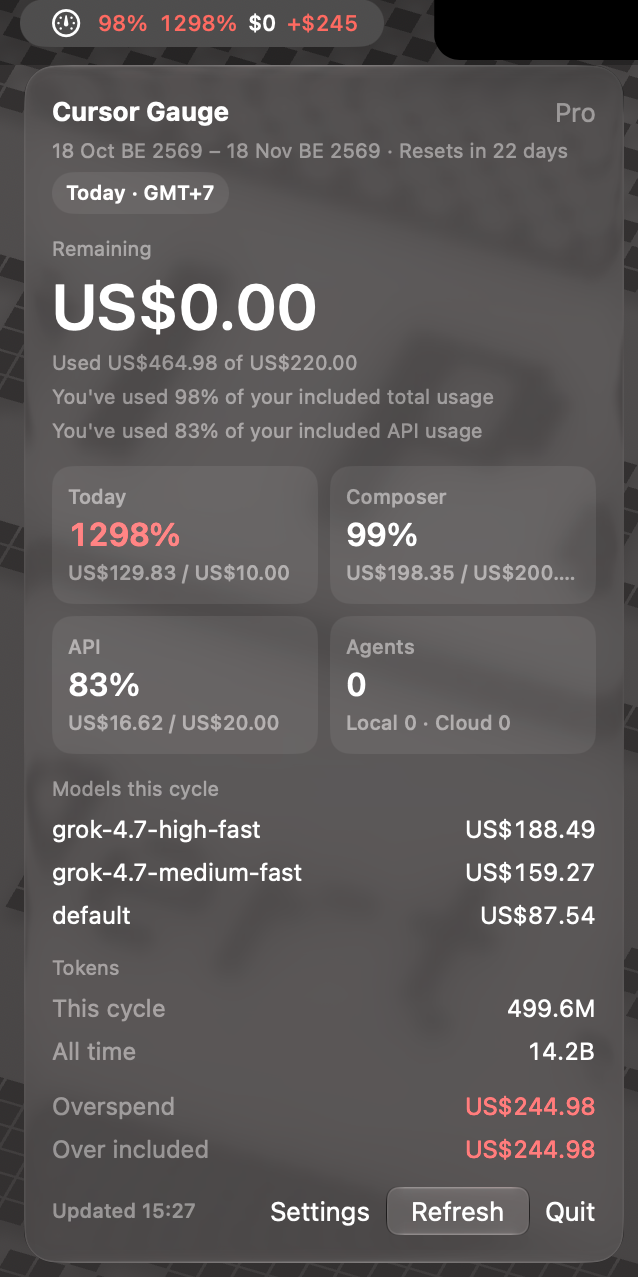
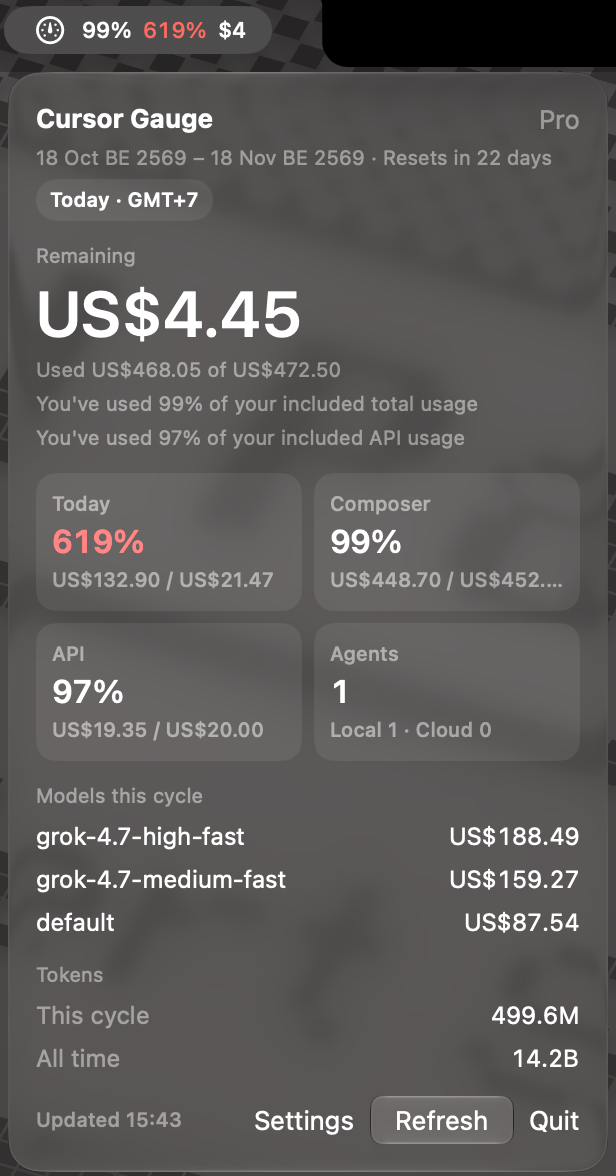
docs: update README to include Thai localization and enhance structure
- Added Thai language section for better accessibility.
- Improved formatting and organization of existing content, including features, requirements, installation, and usage sections.
- Updated headings for consistency and clarity.
- Replaced outdated Homebrew installation instructions with updated commands.
- Included a new screenshot for visual reference.

diff --git a/README.md b/README.md
@@ -1,14 +1,20 @@
 # Cursor Gauge
 
+[English](#english) · [ภาษาไทย](#ภาษาไทย)
+
+![Cursor Gauge panel](docs/screenshot.png)
+
+---
+
+## English
+
 A lightweight macOS menu bar app that shows your Cursor plan usage and how much you have left this billing cycle.
 
 No browser tab, no manual cookie paste — Cursor Gauge reads your session from the local Cursor IDE database and fetches usage from Cursor's dashboard API.
 
-![Cursor Gauge panel](docs/screenshot.png)
-
 Cursor Gauge is a fork of [CursorBar](https://github.com/c-johannesen/cursorbar) by [c-johannesen](https://github.com/c-johannesen).
 
-## Features
+### Features
 
 - **Menu bar icon** — a system gauge symbol plus the figures you turn on in Settings. A yellow badge means an agent needs input. With every switch off, only the gauge remains
 - **Configurable menu bar** — Settings chooses gauge, quota percent, agent badge, today percent, remaining money, and overspend. The dropdown still shows the full panel
@@ -21,15 +27,15 @@ Cursor Gauge is a fork of [CursorBar](https://github.com/c-johannesen/cursorbar)
 - **Auto-refresh** — on launch and every 5 minutes, with a manual Refresh button anytime
 - **Built-in updates** — checks GitHub Releases on startup, with a manual check button and one-click update from Settings
 
-## Requirements
+### Requirements
 
 - macOS 26 or later
 - [Cursor IDE](https://cursor.com) installed and signed in on this Mac
 - Swift 6 — only needed if [building from source](#build-from-source)
 
-## Install
+### Install
 
-### Homebrew
+#### Homebrew
 
 ```bash
 brew tap charcoaldev04/cursor-gauge
@@ -39,7 +45,7 @@ brew install --cask cursor-gauge
 
 This installs `Cursor Gauge.app`. The tap is [homebrew-cursor-gauge](https://github.com/CharcoalDev04/homebrew-cursor-gauge). Homebrew 7 will not install a third-party cask until the tap is trusted.
 
-### Download
+#### Download
 
 Download the latest `CursorGauge-*.zip` from [Releases](https://github.com/CharcoalDev04/cursor-gauge/releases), unzip it, and move `Cursor Gauge.app` to `/Applications`. Then open it:
 
@@ -47,7 +53,7 @@ Download the latest `CursorGauge-*.zip` from [Releases](https://github.com/Charc
 open -a "Cursor Gauge"
 ```
 
-### Build from source
+#### Build from source
 
 ```bash
 git clone https://github.com/CharcoalDev04/cursor-gauge.git
@@ -57,7 +63,7 @@ bash scripts/install.sh
 
 This builds Cursor Gauge locally, installs it to `/Applications/Cursor Gauge.app`, and opens it.
 
-### Launch later
+#### Launch later
 
 ```bash
 open -a "Cursor Gauge"
@@ -69,7 +75,7 @@ Or, if you built from source:
 bash scripts/launch.sh
 ```
 
-## Usage
+### Usage
 
 | Menu bar | Click to open dropdown |
 |----------|------------------------|
@@ -93,7 +99,7 @@ Agent status is read from local Cursor IDE data (transcripts and `state.vscdb`).
 
 **Errors:** if something goes wrong, the menu bar shows `!` — open the dropdown for details.
 
-## Troubleshooting
+### Troubleshooting
 
 Check that Cursor Gauge can read your account:
 
@@ -113,7 +119,7 @@ Common issues:
 | `No auth token found` | Sign out and back into Cursor, then relaunch Cursor Gauge |
 | `Could not parse auth token` | Update Cursor Gauge. Current Cursor seals the login token; signing in again does not turn it back into a JWT. If macOS asks, allow Keychain access to **Cursor Safe Storage** |
 
-## How it works
+### How it works
 
 1. Reads `cursorAuth/accessToken` from Cursor's local SQLite database  
    `~/Library/Application Support/Cursor/User/globalStorage/state.vscdb`
@@ -122,7 +128,7 @@ Common issues:
 
 The token is read fresh on every refresh and is **never stored** by Cursor Gauge.
 
-## Development
+### Development
 
 ```bash
 git clone https://github.com/CharcoalDev04/cursor-gauge.git
@@ -165,21 +171,207 @@ scripts/
   release.sh                  # Package release zip & tag
 ```
 
-## Limitations
+### Limitations
 
 - Uses Cursor's **undocumented** dashboard API — may break without notice
 - Agent status is inferred from local IDE files — may lag the UI or miss edge cases
 - Individual Cursor accounts only (reads your local IDE session)
 - Not signed with an Apple Developer ID — first launch may require right-click → Open, `xattr -cr`, or `scripts/launch.sh`
 
-## Contributing
+### Contributing
 
 Pull requests are welcome — see [CONTRIBUTING.md](CONTRIBUTING.md).
 
 The `main` branch is protected: only the repository owner can push to or merge into `main`. Everyone else should fork the repo and open a PR.
 
-## License
+### License
 
 MIT — see [LICENSE](LICENSE).
 
 Original work copyright (c) 2026 [c-johannesen](https://github.com/c-johannesen). This fork keeps that copyright notice.
+
+---
+
+## ภาษาไทย
+
+แอปขนาดเล็กบนเมนูบาร์ macOS สำหรับดูโควต้าแพ็กเกจ Cursor และยอดคงเหลือในรอบบิลปัจจุบัน
+
+ไม่ต้องเปิดแท็บเบราว์เซอร์หรือคัดลอกคุกกี้เอง — Cursor Gauge อ่านเซสชันจากฐานข้อมูลของ Cursor IDE บนเครื่อง แล้วดึงข้อมูลการใช้งานจาก Dashboard API ของ Cursor โดยตรง
+
+Cursor Gauge พัฒนาต่อยอด (fork) จาก [CursorBar](https://github.com/c-johannesen/cursorbar) โดย [c-johannesen](https://github.com/c-johannesen)
+
+### ฟีเจอร์
+
+- **ไอคอนบนเมนูบาร์** — แสดงสัญลักษณ์เกจพร้อมตัวเลขที่เปิดไว้ในหน้าตั้งค่า ป้ายสีเหลืองหมายถึงมีเอเจนต์รอให้คุณตอบ ถ้าปิดทุกสวิตช์จะเหลือเฉพาะไอคอนเกจ
+- **ปรับแต่งเมนูบาร์ได้** — เลือกเปิด/ปิด สัญลักษณ์เกจ, เปอร์เซ็นต์โควต้า, ป้ายเอเจนต์, เปอร์เซ็นต์วันนี้, เงินที่เหลือ และยอดเกินได้อิสระ ส่วนแผงด้านในยังแสดงข้อมูลครบทุกส่วน
+- **รองรับหลายภาษา** — ตามระบบ, ไทย หรือ English โดยวันที่และสกุลเงินจะอิงตามการตั้งค่าของเครื่อง Mac
+- **การใช้งานรายวัน (วันนี้)** — คำนวณยอดใช้ตั้งแต่เที่ยงคืนตามเวลาท้องถิ่นเทียบกับงบรายวัน (โควต้ารวม ÷ จำนวนวันทำการ จันทร์–ศุกร์ ในรอบบิล) เปลี่ยนเป็น **สีเหลือง** เมื่อใกล้เต็มงบ (`90–100%`) และเป็น **สีแดง** เมื่อเกิน `100%`
+- **แยกโควต้าตามพูล** — แสดงยอดคงเหลือรวม, พูล **คอมโพเซอร์ / Cursor Models** (ขั้นต่ำ `$200` สำหรับ Pro `1x` / `$600` สำหรับ Pro+ `3x` / `$4,000` สำหรับ Ultra `20x` และปรับสเกลตามยอดใช้จริงกับ `%`), และพูล **API / Other Models** (`plan.limit` หรือ `$20` Pro / `$70` Pro+ / `$400` Ultra)
+- **อันดับโมเดลและโทเคน** — แสดงโมเดลที่ใช้เงินสูงสุดในรอบบิลนี้ พร้อมจำนวนโทเคนรอบนี้และตลอดชีพจากโปรไฟล์สาธารณะของ Cursor
+- **ติดตามยอดเกิน (Overspend)** — แสดงยอดใช้ที่เกินโควต้าที่รวมมา และยอดใช้จ่ายเพิ่ม (On-demand) พร้อมงบและยอดคงเหลือ
+- **ข้อมูลรอบบิล** — แสดงวันที่เริ่ม–สิ้นสุดรอบบิล และจำนวนวันที่เหลือก่อนรีเซ็ต
+- **รีเฟรชอัตโนมัติ** — อัปเดตทันทีเมื่อเปิดแอป และทุก ๆ 5 นาที หรือกดปุ่ม **รีเฟรช** ได้ตลอดเวลา
+- **อัปเดตในตัว** — ตรวจหาเวอร์ชันใหม่จาก GitHub Releases เมื่อเปิดแอป พร้อมปุ่มตรวจอัปเดตและติดตั้งได้ในคลิกเดียวจากหน้าตั้งค่า
+
+### ความต้องการของระบบ
+
+- macOS 26 ขึ้นไป
+- ติดตั้ง [Cursor IDE](https://cursor.com) และเข้าสู่ระบบไว้บนเครื่องนี้
+- Swift 6 — ใช้เฉพาะกรณี[บิลด์จากซอร์สโค้ด](#บิลด์จากซอร์สโค้ด)
+
+### วิธีติดตั้ง
+
+#### Homebrew
+
+```bash
+brew tap charcoaldev04/cursor-gauge
+brew trust charcoaldev04/cursor-gauge
+brew install --cask cursor-gauge
+```
+
+คำสั่งนี้จะติดตั้ง `Cursor Gauge.app` จาก tap [homebrew-cursor-gauge](https://github.com/CharcoalDev04/homebrew-cursor-gauge) (บน Homebrew 7 ต้องรัน `brew trust` ก่อนติดตั้ง cask จาก tap ภายนอก)
+
+#### ดาวน์โหลดไฟล์ติดตั้ง
+
+ดาวน์โหลดไฟล์ `CursorGauge-*.zip` ล่าสุดจากหน้า [Releases](https://github.com/CharcoalDev04/cursor-gauge/releases) แตกไฟล์ แล้วลาก `Cursor Gauge.app` ไปไว้ที่ `/Applications` จากนั้นเปิดแอป:
+
+```bash
+open -a "Cursor Gauge"
+```
+
+#### บิลด์จากซอร์สโค้ด
+
+```bash
+git clone https://github.com/CharcoalDev04/cursor-gauge.git
+cd cursor-gauge
+bash scripts/install.sh
+```
+
+สคริปต์จะบิลด์ Cursor Gauge ติดตั้งไปยัง `/Applications/Cursor Gauge.app` และเปิดแอปให้อัตโนมัติ
+
+#### การเปิดใช้งานในครั้งถัดไป
+
+```bash
+open -a "Cursor Gauge"
+```
+
+หรือถ้าบิลด์จากซอร์สโค้ด:
+
+```bash
+bash scripts/launch.sh
+```
+
+### การใช้งาน
+
+| เมนูบาร์ | คลิกเพื่อเปิดแผงข้อมูล |
+|----------|------------------------|
+| สัญลักษณ์เกจและตัวเลขที่เปิดไว้ | คลิกเพื่อดูรายละเอียดและตั้งค่า |
+
+**ความหมายบนเมนูบาร์**
+
+- **ป้ายสีเหลือง** — จำนวนเอเจนต์ที่กำลังรอให้คุณตอบ
+- **เปอร์เซ็นต์วันนี้สีเหลือง** — ยอดใช้วันนี้อยู่ที่ `90–100%` ของงบรายวัน
+- **ตัวเลขสีแดง** — โควต้าถึงหรือเกิน `100%` (หรือมียอดเกิน) หรือยอดใช้วันนี้เกิน `100%`
+- **ไอคอนเกจสีจาง** — ไม่มีเอเจนต์กำลังทำงานและโควต้าอยู่ที่ `0%`
+
+สถานะเอเจนต์อ่านจากข้อมูลของ Cursor IDE บนเครื่อง (ไฟล์ transcript และ `state.vscdb`) สถานะของ Cloud Agent และการรออินพุตอาจดีเลย์จากหน้าจอหลักประมาณ 1–2 นาทีตามจังหวะที่ IDE เขียนข้อมูลลงดิสก์ สามารถคลิกชื่อเอเจนต์ใต้หัวข้อ **รอให้ตอบ** เพื่อสลับไปยังหน้าต่าง Cursor ได้ทันที
+
+**สีของตัวเลขในแผงข้อมูล**
+
+- **สีเหลือง** — ยอดใช้วันนี้อยู่ที่ `90–100%` ของงบรายวัน
+- **สีแดง** — พูลนั้นใช้ถึง `100%` หรือยอดใช้วันนี้เกิน `100%`
+
+**รีเฟรชอัตโนมัติ:** ทันทีที่เปิดแอป และทุก ๆ **5 นาที** ขณะเปิดแอปไว้
+
+**ข้อผิดพลาด:** หากเกิดปัญหา เมนูบาร์จะแสดงเครื่องหมาย `!` สามารถเปิดแผงขึ้นมาดูสาเหตุได้
+
+### การแก้ปัญหาเบื้องต้น
+
+ตรวจสอบว่า Cursor Gauge อ่านข้อมูลบัญชีของคุณได้หรือไม่:
+
+```bash
+"/Applications/Cursor Gauge.app/Contents/MacOS/CursorGauge" --status
+```
+
+ผลลัพธ์ที่ควรได้: `OK 42%` (ตัวเลขขึ้นอยู่กับการใช้งานจริง)
+
+ปัญหาที่พบบ่อย:
+
+| ปัญหา | วิธีแก้ไข |
+|-------|-----------|
+| แสดง `!` บนเมนูบาร์ | ตรวจสอบว่าติดตั้งและเข้าสู่ระบบ Cursor แล้ว จากนั้นกดปุ่ม **รีเฟรช** |
+| เปิดแอปจาก Finder ไม่ได้ | รัน `bash scripts/launch.sh` หรือ `xattr -cr "/Applications/Cursor Gauge.app"` เพื่อล้างสถานะกักกันของ Gatekeeper |
+| `Swift is not installed` | รัน `xcode-select --install` |
+| `No auth token found` / ไม่พบโทเคนเข้าสู่ระบบ | ออกจากระบบใน Cursor แล้วเข้าสู่ระบบใหม่ จากนั้นเปิด Cursor Gauge อีกครั้ง |
+| `Could not parse auth token` / อ่านโทเคนเข้าสู่ระบบไม่ได้ | อัปเดต Cursor Gauge เป็นเวอร์ชันล่าสุด (Cursor รุ่นใหม่เข้ารหัสโทเคนไว้ การล็อกอินใหม่จะไม่เปลี่ยนกลับเป็น JWT เปล่า) หาก macOS ถามสิทธิ์ ให้กดอนุญาตเข้าถึง Keychain รายการ **Cursor Safe Storage** |
+
+### หลักการทำงาน
+
+1. อ่านค่า `cursorAuth/accessToken` จากฐานข้อมูล SQLite ของ Cursor บนเครื่อง  
+   `~/Library/Application Support/Cursor/User/globalStorage/state.vscdb`
+2. หากโทเคนถูกเข้ารหัสไว้ (`cursor-safe-storage:v1:`) แอปจะถอดรหัสด้วยกุญแจ **Cursor Safe Storage** จาก Keychain ของ macOS แล้วสร้างคุกกี้เซสชันจาก JWT
+3. เรียก `GET https://cursor.com/api/usage-summary`, `POST https://cursor.com/api/dashboard/get-filtered-usage-events` และหน้าโปรไฟล์สาธารณะของ Cursor เพื่อดึงยอดโทเคน
+
+โทเคนจะถูกอ่านใหม่ทุกครั้งที่รีเฟรช และ **ไม่มีการบันทึกเก็บไว้** โดย Cursor Gauge
+
+### สำหรับนักพัฒนา
+
+```bash
+git clone https://github.com/CharcoalDev04/cursor-gauge.git
+cd cursor-gauge
+
+# บิลด์อย่างเดียว
+bash scripts/package.sh
+
+# บิลด์ ติดตั้งลง /Applications และเปิดแอป
+bash scripts/package.sh --install --open
+
+# รันชุดตรวจสอบตัวเอง (self-check)
+.build/release/CursorGauge --self-check
+
+# ทดสอบการเรียก API
+.build/release/CursorGauge --status
+```
+
+โครงสร้างโปรเจกต์:
+
+```
+Sources/CursorGauge/
+  App.swift                   # จุดเข้า MenuBarExtra และแฟล็ก CLI
+  PanelView.swift             # แผงดรอปดาวน์และหน้าตั้งค่า
+  MenuBarStatus.swift         # เกจ ตัวเลข และป้ายบนเมนูบาร์
+  MenuBarChrome.swift         # วัดความสว่างของเมนูบาร์
+  MenuBarChromeMonitor.swift  # เฝ้าโหมดมืด/สว่างของเมนูบาร์
+  L10n.swift                  # สตริงภาษาอังกฤษและไทย
+  AgentMonitor.swift          # นับเอเจนต์ที่กำลังรันและที่รออินพุต
+  TokenProvider.swift         # อ่านและถอดรหัสโทเคนจากฐานข้อมูล Cursor
+  CursorAPI.swift             # ดึง usage summary, อีเวนต์ และยอดโทเคนจากโปรไฟล์
+  UsageSummary+Resolved.swift # เพดานพูลและพื้นเครดิต
+  UsageMath.swift             # จังหวะรายวัน อันดับโมเดล และ self-check
+  UsageStore.swift            # ตัวจับเวลาอัปเดตและสถานะที่แสดง
+  UpdateChecker.swift         # ตรวจอัปเดตจาก GitHub Releases
+scripts/
+  install.sh                  # บิลด์และติดตั้งในขั้นตอนเดียว
+  launch.sh                   # เปิดแอป
+  package.sh                  # สร้างบันเดิล .app
+  release.sh                  # แพ็ก zip รีลีสและติดแท็ก
+```
+
+### ข้อจำกัด
+
+- ใช้ Dashboard API ของ Cursor ที่ไม่ได้เปิดเผยเป็นทางการ ซึ่งอาจเปลี่ยนแปลงได้โดยไม่แจ้งล่วงหน้า
+- สถานะเอเจนต์อนุมานจากไฟล์ของ IDE บนเครื่อง อาจมีความล่าช้าเล็กน้อย
+- รองรับเฉพาะบัญชี Cursor ส่วนบุคคลที่ล็อกอินอยู่ใน IDE บนเครื่อง
+- ไม่ได้ลงนามด้วย Apple Developer ID การเปิดครั้งแรกอาจต้องคลิกขวา → Open หรือรัน `xattr -cr` / `scripts/launch.sh`
+
+### การมีส่วนร่วม
+
+ยินดีรับพูลรีเควสต์ — ดู [CONTRIBUTING.md](CONTRIBUTING.md)
+
+สาขา `main` ถูกป้องกันไว้: เฉพาะเจ้าของรีโปที่พุชหรือเมิร์จเข้า `main` ได้ คนอื่นให้ fork แล้วเปิด PR
+
+### สัญญาอนุญาต
+
+MIT — ดูรายละเอียดใน [LICENSE](LICENSE)
+
+ลิขสิทธิ์ต้นฉบับ (c) 2026 [c-johannesen](https://github.com/c-johannesen) โดย fork นี้คงประกาศลิขสิทธิ์เดิมไว้ครบถ้วน
